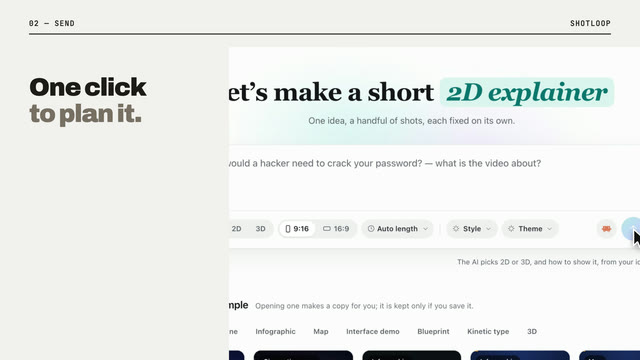
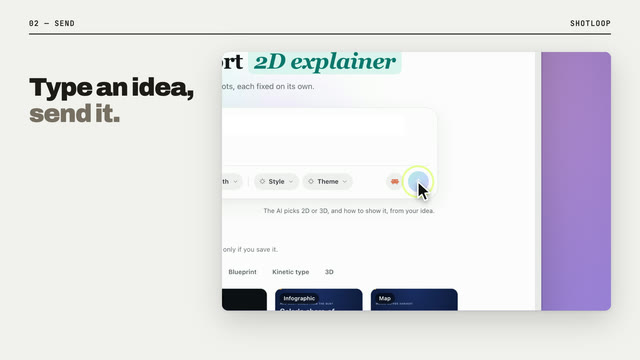
Product promo: a Mac's desktop with its own camera
The camera's moves (in to a click, along to the next, a window dragged)
now happen on a simulated Mac screen in its own box: a soft blue
wallpaper, a menu bar and a Dock, the product's windows on it, all
growing together as the camera comes in. Nothing else in the frame
moves, and what the camera follows (a click) sits in the middle of the
screen. desktop() and desktopPoint() in screens.js; a tool and stills.

diff --git a/app/src/rules.ts b/app/src/rules.ts
@@ -383,6 +383,18 @@ const WORDS: Record<string, { name: Words; about: Words }> = {
     about: { en: 'The common wrong picture, stamped, then the real one', 'zh-CN': '先画常见的错误理解并盖章，再换成真实机制', 'zh-TW': '先畫常見的錯誤理解並蓋章，再換成真實機制', ja: 'よくある誤った理解にスタンプを押し、本当の仕組みへ', ko: '흔한 잘못된 그림에 도장을 찍고, 진짜 원리로', es: 'La idea equivocada común, sellada, y luego la real', 'pt-BR': 'A imagem errada comum, carimbada, e depois a real', fr: 'L’idée fausse courante, tamponnée, puis la vraie', de: 'Das verbreitete falsche Bild, abgestempelt, dann das richtige', it: 'L’idea sbagliata comune, timbrata, poi quella vera', ru: 'Распространённое ложное представление — со штампом, затем настоящее', tr: 'Yaygın yanlış resim damgalanır, ardından gerçeği gelir', vi: 'Hình dung sai phổ biến bị đóng dấu, rồi đến cơ chế thật', id: 'Gambaran keliru yang umum, dicap, lalu yang sebenarnya' }
   },
   // Tools: product promo
+  'desktop': {
+    name: { en: 'A Mac’s desktop', 'zh-CN': '模拟 Mac 桌面', 'zh-TW': '模擬 Mac 桌面', ja: 'Mac のデスクトップ', ko: 'Mac 데스크톱', es: 'Un escritorio de Mac', 'pt-BR': 'Uma mesa do Mac', fr: 'Un bureau de Mac', de: 'Ein Mac-Schreibtisch', it: 'Una scrivania Mac', ru: 'Рабочий стол Mac', tr: 'Bir Mac masaüstü', vi: 'Màn hình nền Mac', id: 'Desktop Mac' },
+    about: { en: 'The product’s windows on a Mac screen with its own camera; zooms, clicks and drags happen there only', 'zh-CN': '产品窗口放在模拟的 Mac 桌面里，桌面有自己的镜头；推近、点击、拖拽只在桌面里发生', 'zh-TW': '產品視窗放在模擬的 Mac 桌面裡，桌面有自己的鏡頭；推近、點擊、拖曳只在桌面裡發生', ja: '製品のウィンドウを独自のカメラを持つ Mac 画面に。寄り・クリック・ドラッグはその中だけ', ko: '제품 창을 자체 카메라가 있는 Mac 화면에. 확대·클릭·드래그는 그 안에서만', es: 'Las ventanas del producto en una pantalla de Mac con su propia cámara; zoom, clics y arrastres solo ahí', 'pt-BR': 'As janelas do produto numa tela de Mac com câmera própria; zoom, cliques e arrastes só ali', fr: 'Les fenêtres du produit sur un écran de Mac avec sa caméra ; zooms, clics et glissés seulement là', de: 'Die Fenster des Produkts auf einem Mac-Bildschirm mit eigener Kamera; Zoomen, Klicken, Ziehen nur dort', it: 'Le finestre del prodotto su uno schermo Mac con la sua camera; zoom, clic e trascinamenti solo lì', ru: 'Окна продукта на экране Mac со своей камерой; наезды, клики и перетаскивания только там', tr: 'Ürünün pencereleri kendi kamerası olan bir Mac ekranında; yakınlaşma, tıklama ve sürükleme yalnızca orada', vi: 'Cửa sổ sản phẩm trên màn hình Mac có máy quay riêng; phóng, bấm, kéo chỉ diễn ra ở đó', id: 'Jendela produk di layar Mac dengan kameranya sendiri; zoom, klik, dan seret hanya di sana' }
+  },
+  'dive': {
+    name: { en: 'Dive to the action', 'zh-CN': '推进到动作处', 'zh-TW': '推進到動作處', ja: '動作へ寄る', ko: '동작으로 파고들기', es: 'Ir a la acción', 'pt-BR': 'Mergulhar na ação', fr: 'Plonger vers l’action', de: 'Rein in die Aktion', it: 'Tuffo nell’azione', ru: 'Наезд к действию', tr: 'Eyleme dalış', vi: 'Lao vào hành động', id: 'Menyelam ke aksi' },
+    about: { en: 'On the desktop, the camera moves in and centres the part; the whole screen grows with it', 'zh-CN': '在桌面里，镜头推近并把部件放到中间，整个屏幕一起放大', 'zh-TW': '在桌面裡，鏡頭推近並把元件放到中間，整個螢幕一起放大', ja: 'デスクトップでカメラが寄り、部品を中央に。画面全体が一緒に拡大', ko: '데스크톱에서 카메라가 다가가 부분을 가운데로, 화면 전체가 함께 커짐', es: 'En el escritorio, la cámara se acerca y centra la parte; toda la pantalla crece con ella', 'pt-BR': 'Na mesa, a câmera se aproxima e centraliza a parte; a tela inteira cresce junto', fr: 'Sur le bureau, la caméra avance et centre la partie ; tout l’écran grandit avec elle', de: 'Auf dem Schreibtisch fährt die Kamera heran und mittet den Teil; der ganze Bildschirm wächst mit', it: 'Sulla scrivania la camera si avvicina e centra la parte; tutto lo schermo cresce con lei', ru: 'На рабочем столе камера наезжает и ставит часть в центр; весь экран растёт вместе с ней', tr: 'Masaüstünde kamera yaklaşır ve parçayı ortalar; tüm ekran onunla büyür', vi: 'Trên màn hình nền, máy quay tiến vào và đặt phần đó ở giữa; cả màn hình phóng to theo', id: 'Di desktop, kamera mendekat dan memusatkan bagian itu; seluruh layar ikut membesar' }
+  },
+  'cursor-action': {
+    name: { en: 'Cursor action', 'zh-CN': '光标操作', 'zh-TW': '游標操作', ja: 'カーソル操作', ko: '커서 동작', es: 'Acción del cursor', 'pt-BR': 'Ação do cursor', fr: 'Action du curseur', de: 'Cursor-Aktion', it: 'Azione del cursore', ru: 'Действие курсора', tr: 'İmleç eylemi', vi: 'Thao tác con trỏ', id: 'Aksi kursor' },
+    about: { en: 'A large pointer clicks; the desktop’s camera puts the click in the middle of the screen', 'zh-CN': '大光标点击，桌面镜头把点击位置放到屏幕正中', 'zh-TW': '大游標點擊，桌面鏡頭把點擊位置放到螢幕正中', ja: '大きなポインターがクリック、デスクトップのカメラがクリック位置を画面の中央へ', ko: '큰 포인터가 클릭하고 데스크톱 카메라가 클릭 지점을 화면 가운데로', es: 'Un puntero grande hace clic; la cámara del escritorio pone el clic en el centro', 'pt-BR': 'Um ponteiro grande clica; a câmera da mesa põe o clique no centro', fr: 'Un grand pointeur clique ; la caméra du bureau place le clic au centre de l’écran', de: 'Ein großer Zeiger klickt; die Kamera des Schreibtischs setzt den Klick in die Bildmitte', it: 'Un grande puntatore clicca; la camera della scrivania mette il clic al centro', ru: 'Крупный курсор кликает; камера стола ставит клик в центр экрана', tr: 'Büyük bir imleç tıklar; masaüstünün kamerası tıklamayı ekranın ortasına alır', vi: 'Con trỏ lớn bấm; máy quay của màn hình nền đặt chỗ bấm vào giữa', id: 'Penunjuk besar mengeklik; kamera desktop menaruh klik di tengah layar' }
+  },
   'chapter': {
     name: { en: 'Chapter', 'zh-CN': '章节标题', 'zh-TW': '章節標題', ja: '章ラベル', ko: '장 라벨', es: 'Capítulo', 'pt-BR': 'Capítulo', fr: 'Chapitre', de: 'Kapitel', it: 'Capitolo', ru: 'Глава', tr: 'Bölüm', vi: 'Chương', id: 'Bab' },
     about: { en: '“01 — The problem” in mono over a rule, the product’s name at the right', 'zh-CN': '分割线上的“01 — 问题”，右侧是产品名', 'zh-TW': '分隔線上的「01 — 問題」，右側是產品名', ja: '罫線の上に「01 — 課題」、右に製品名', ko: '선 위에 “01 — 문제”, 오른쪽에 제품 이름', es: '“01 — El problema” en mono sobre una línea, el nombre a la derecha', 'pt-BR': '“01 — O problema” em mono sobre uma linha, o nome à direita', fr: '« 01 — Le problème » en mono sur un filet, le nom à droite', de: '„01 — Das Problem“ in Mono über einer Linie, der Name rechts', it: '“01 — Il problema” in mono su una riga, il nome a destra', ru: '«01 — Проблема» моноширинным над линейкой, имя справа', tr: 'Çizgi üstünde mono “01 — Sorun”, sağda ürün adı', vi: '“01 — Vấn đề” đơn cách trên đường kẻ, tên sản phẩm bên phải', id: '“01 — Masalah” mono di atas garis, nama produk di kanan' }
@@ -415,10 +427,6 @@ const WORDS: Record<string, { name: Words; about: Words }> = {
     name: { en: 'Screen beside its headline', 'zh-CN': '截图在标题旁', 'zh-TW': '截圖在標題旁', ja: '見出しの横の画面', ko: '제목 옆 화면', es: 'Pantalla junto a su titular', 'pt-BR': 'Tela ao lado do título', fr: 'Écran à côté du titre', de: 'Screen neben der Überschrift', it: 'Schermata accanto al titolo', ru: 'Экран рядом с заголовком', tr: 'Başlığın yanında ekran', vi: 'Màn hình bên tiêu đề', id: 'Layar di samping judul' },
     about: { en: 'A real screen as a window in its own column, rising in, then pushing in slowly', 'zh-CN': '真实界面作为窗口放在自己的一栏，升起后缓慢推进', 'zh-TW': '真實介面作為視窗放在自己的一欄，升起後緩慢推進', ja: '本物の画面がウィンドウとして自分の列に上がり、ゆっくり寄る', ko: '실제 화면이 창으로 자기 칸에 올라오고 천천히 다가감', es: 'Una pantalla real como ventana en su columna, sube y se acerca despacio', 'pt-BR': 'Uma tela real como janela em sua coluna, sobe e se aproxima devagar', fr: 'Un vrai écran en fenêtre dans sa colonne, qui monte puis avance lentement', de: 'Ein echter Screen als Fenster in seiner Spalte, steigt auf und fährt langsam heran', it: 'Una schermata reale come finestra nella sua colonna, sale e si avvicina piano', ru: 'Настоящий экран окном в своей колонке: поднимается и медленно наезжает', tr: 'Kendi sütununda pencere olarak gerçek ekran, yükselir ve yavaşça yaklaşır', vi: 'Màn hình thật dạng cửa sổ trong cột riêng, hiện lên rồi tiến chậm', id: 'Layar asli sebagai jendela di kolomnya, naik lalu mendekat perlahan' }
   },
-  'dive': {
-    name: { en: 'Dive to the action', 'zh-CN': '推进到动作处', 'zh-TW': '推進到動作處', ja: '動作へ寄る', ko: '동작으로 파고들기', es: 'Ir a la acción', 'pt-BR': 'Mergulhar na ação', fr: 'Plonger vers l’action', de: 'Rein in die Aktion', it: 'Tuffo nell’azione', ru: 'Наезд к действию', tr: 'Eyleme dalış', vi: 'Lao vào hành động', id: 'Menyelam ke aksi' },
-    about: { en: 'The camera moves in to the part, the interface running off the frame', 'zh-CN': '镜头推近到部件，界面延伸出画面', 'zh-TW': '鏡頭推近到元件，介面延伸出畫面', ja: 'カメラが部品へ寄り、UI は枠外まで広がる', ko: '카메라가 부분으로 다가가고 UI는 프레임 밖까지', es: 'La cámara entra hasta la parte, la interfaz sale del cuadro', 'pt-BR': 'A câmera avança até a parte, a interface sai do quadro', fr: 'La caméra entre jusqu’à la partie, l’interface déborde du cadre', de: 'Die Kamera fährt an den Teil heran, die UI läuft aus dem Bild', it: 'La camera entra fino alla parte, l’interfaccia esce dal bordo', ru: 'Камера подъезжает к части, интерфейс уходит за край', tr: 'Kamera parçaya girer, arayüz kadrajdan taşar', vi: 'Máy quay tiến vào phần đó, giao diện tràn khỏi khung', id: 'Kamera masuk ke bagian itu, antarmuka meluber keluar bingkai' }
-  },
   'wipe-cut': {
     name: { en: 'Wipe cut', 'zh-CN': '横扫转场', 'zh-TW': '橫掃轉場', ja: 'ワイプのカット', ko: '와이프 컷', es: 'Corte con barrido', 'pt-BR': 'Corte com cortina', fr: 'Coupe en volet', de: 'Wischblende', it: 'Taglio a tendina', ru: 'Склейка шторкой', tr: 'Silme geçişi', vi: 'Chuyển cảnh quét', id: 'Potongan sapuan' },
     about: { en: 'An ink panel crosses the frame in 0.36 s between two beats', 'zh-CN': '一块墨色板在两拍之间 0.36 秒横扫过画面', 'zh-TW': '一塊墨色板在兩拍之間 0.36 秒橫掃過畫面', ja: '2 つのビートの間でインクの板が 0.36 秒で横切る', ko: '두 비트 사이에 잉크 판이 0.36초에 화면을 가로지름', es: 'Un panel de tinta cruza el cuadro en 0,36 s entre dos momentos', 'pt-BR': 'Um painel de tinta cruza o quadro em 0,36 s entre dois momentos', fr: 'Un panneau d’encre traverse le cadre en 0,36 s entre deux temps', de: 'Eine Tintenfläche quert das Bild in 0,36 s zwischen zwei Momenten', it: 'Un pannello d’inchiostro attraversa il quadro in 0,36 s tra due momenti', ru: 'Чернильная панель пересекает кадр за 0,36 с между двумя моментами', tr: 'İki vuruş arasında mürekkep bir panel kadrajı 0,36 sn’de geçer', vi: 'Một tấm mực quét qua khung trong 0,36 giây giữa hai nhịp', id: 'Panel tinta melintasi bingkai dalam 0,36 dtk di antara dua ketukan' }
@@ -426,10 +434,6 @@ const WORDS: Record<string, { name: Words; about: Words }> = {
   'logo-lockup': {
     name: { en: 'End card', 'zh-CN': '结尾卡', 'zh-TW': '結尾卡', ja: 'エンドカード', ko: '엔드 카드', es: 'Tarjeta final', 'pt-BR': 'Cartão final', fr: 'Carton final', de: 'Endkarte', it: 'Cartello finale', ru: 'Финальная карточка', tr: 'Bitiş kartı', vi: 'Thẻ kết', id: 'Kartu akhir' },
     about: { en: 'A field of the accent: the name huge, the line to remember, the address', 'zh-CN': '强调色整屏：超大产品名、要记住的一句话、网址', 'zh-TW': '強調色整屏：超大產品名、要記住的一句話、網址', ja: 'アクセント色の面：特大の名前、覚えてほしい一言、アドレス', ko: '강조색 화면: 커다란 이름, 기억할 한 줄, 주소', es: 'Un campo del acento: el nombre enorme, la frase para recordar, la dirección', 'pt-BR': 'Um campo do destaque: o nome enorme, a frase para lembrar, o endereço', fr: 'Un aplat de l’accent : le nom immense, la phrase à retenir, l’adresse', de: 'Eine Fläche im Akzent: der Name riesig, der Merksatz, die Adresse', it: 'Un campo dell’accento: il nome enorme, la frase da ricordare, l’indirizzo', ru: 'Поле акцентного цвета: огромное имя, фраза на память, адрес', tr: 'Vurgu renginde bir alan: dev isim, akılda kalacak cümle, adres', vi: 'Một nền màu nhấn: tên thật lớn, câu để nhớ, địa chỉ', id: 'Bidang warna aksen: nama besar, kalimat untuk diingat, alamat' }
-  },
-  'cursor-action': {
-    name: { en: 'Cursor action', 'zh-CN': '光标操作', 'zh-TW': '游標操作', ja: 'カーソル操作', ko: '커서 동작', es: 'Acción del cursor', 'pt-BR': 'Ação do cursor', fr: 'Action du curseur', de: 'Cursor-Aktion', it: 'Azione del cursore', ru: 'Действие курсора', tr: 'İmleç eylemi', vi: 'Thao tác con trỏ', id: 'Aksi kursor' },
-    about: { en: 'A large pointer glides, hovers and clicks; the camera moves in around it', 'zh-CN': '大光标滑过、悬停、点击；镜头跟着推近', 'zh-TW': '大游標滑過、懸停、點擊；鏡頭跟著推近', ja: '大きなポインターが滑り、止まり、クリック。カメラも寄る', ko: '큰 포인터가 미끄러지고 머물고 클릭, 카메라가 다가감', es: 'Un puntero grande se desliza, se posa y hace clic; la cámara se acerca', 'pt-BR': 'Um ponteiro grande desliza, para e clica; a câmera se aproxima', fr: 'Un grand pointeur glisse, survole et clique ; la caméra s’approche', de: 'Ein großer Zeiger gleitet, verweilt und klickt; die Kamera fährt heran', it: 'Un grande puntatore scivola, si ferma e clicca; la camera si avvicina', ru: 'Крупный курсор скользит, замирает и кликает; камера приближается', tr: 'Büyük bir imleç kayar, durur ve tıklar; kamera yaklaşır', vi: 'Con trỏ lớn lướt, dừng và bấm; máy quay tiến vào', id: 'Penunjuk besar meluncur, berhenti, dan mengeklik; kamera mendekat' }
   },
   'type-in': {
     name: { en: 'Type it in', 'zh-CN': '逐字输入', 'zh-TW': '逐字輸入', ja: '一文字ずつ入力', ko: '한 글자씩 입력', es: 'Escribirlo', 'pt-BR': 'Digitar', fr: 'Le taper', de: 'Eintippen', it: 'Digitarlo', ru: 'Набрать текст', tr: 'Yazarak gir', vi: 'Gõ từng chữ', id: 'Ketik masuk' },

diff --git a/engine/shotloop/screens.js b/engine/shotloop/screens.js
@@ -4,8 +4,8 @@
 // promo's world before each command: never edit it here; a promo's own
 // pieces go in world/*.js modules beside it. Shots import what they use:
 //
-//   import { load, depth, chapter, headline, row, counter, steps, bubble, compare, wipe, endCard,
-//     shot, camera, follow, drift, cursor, typing, field, livePart, fill } from '../../world/screens.js'
+//   import { load, depth, layout, source, chapter, headline, row, counter, steps, bubble, compare, wipe, endCard,
+//     desktop, desktopPoint, shot, camera, follow, drift, cursor, typing, field, livePart, fill } from '../../world/screens.js'
 //
 // The craft it follows is the promo's taste (Settings → Rules, kind
 // promo), after oliverz.dev's product films: the problem first, then the
@@ -37,6 +37,9 @@
 //   It returns the layer, so a live part's field can be filled after.
 // - kit.stage(svg) above it: cursor().
 //
+// The camera's moves (in to a click, along to the next, a window dragged)
+// happen on a desktop(): a simulated screen in its own box, so nothing
+// else in the frame moves, and what the camera follows sits in its middle.
 // A shot sits in stageBox() unless given a box: the product running off
 // the bottom and the right. Its camera: { x, y } the point of the picture
 // at the box's centre (0–1 across and down it), zoom 1 the whole picture
@@ -334,6 +337,99 @@ function windowShot({ file, width, height, box, view = { x: 0.5, y: 0.5, zoom: 1
 // Something drawn on a shot's picture, cut to the part of it in frame
 const onShot = (under, html) => `<div style="position:absolute;left:${n(under.seen.x)}px;top:${n(under.seen.y)}px;width:${n(under.seen.w)}px;height:${n(under.seen.h)}px;overflow:hidden">` +
   `<div style="position:absolute;left:${n(-under.seen.x)}px;top:${n(-under.seen.y)}px">${html}</div></div>`
+
+// ---- A desktop: windows on a simulated screen, with its own camera ----
+//
+// A promo's camera moves on a desktop of its own, so a push-in, a click
+// or a window dragged never moves anything else in the frame: a box (a
+// layout() picture box) showing a Mac's screen, as a viewer knows one (a
+// soft blue wallpaper drawn here, a menu bar, a Dock), and the product's
+// windows on it (pictures with a title bar). The whole screen is in the
+// camera, so moving in enlarges the bar and the Dock too.
+// Its camera centres what it looks at: a click it follows lands in the
+// middle of the box. Positions on it are desktop px: (0, 0) its top-left,
+// box.w × box.h its size at zoom 1.
+
+// Each window's place on the desktop: { x, y, w } in desktop px (its
+// height follows the picture and its title bar)
+function desktopWindows(windows, u) {
+  const bar = 26 * u
+  return windows.map(win => {
+    const s = win.w / win.width
+    return { ...win, s, bar, h: win.height * s + bar }
+  })
+}
+
+// Where a point of a window's picture is on the desktop (desktop px),
+// to aim the camera at: follow() takes these divided by the box's size
+export function desktopPoint({ box, windows }, i, px, py) {
+  const w = desktopWindows(windows, unit())[i]
+  return { x: (w.x + px * w.s) / box.w, y: (w.y + w.bar + py * w.s) / box.h }
+}
+
+// The desktop in box { x, y, w, h }, its windows [{ file, width, height,
+// x, y, w, title, p, over }] (p brings a window in; x, y may change with t
+// to drag it), seen by view { x, y, zoom } (a camera(t, keys) over desktop
+// fractions; follow() and desktopPoint() aim it at clicks). The view's
+// point is centred in the box; zoom never passes the pictures' pixels.
+// app: the name in the menu bar; dock: the product's icon (a picture of
+// the project) among the Dock's, or none
+// Gives back { html, at(i, px, py) → frame px, window(i) } for the
+// cursor and words; window(i) is what field() takes for that window
+export function desktop({ box, windows, view = { x: 0.5, y: 0.5, zoom: 1 }, app = '', dock = '', p = 1 }) {
+  const { C } = kit()
+  const u = unit()
+  const wins = desktopWindows(windows, u)
+  // Sharp: the window shown largest sets how close the camera may come
+  const sharp = Math.min(...wins.map(w => 1 / OUT / w.s))
+  const z = clamp(view.zoom, 0.5, Math.max(1, sharp))
+  const cx = box.w / 2, cy = box.h / 2
+  // Desktop px → box px: the view's point to the box's centre
+  const tx = cx - view.x * box.w * z, ty = cy - view.y * box.h * z
+  const at = (i, px, py) => {
+    const w = wins[i]
+    return { x: box.x + tx + (w.x + px * w.s) * z, y: box.y + ty + (w.y + w.bar + py * w.s) * z }
+  }
+  const mb = blur((view.vx ?? 0) * box.w * z, (view.vy ?? 0) * box.h * z)
+  // The screen: a soft blue wallpaper (drawn, wider than the desktop so
+  // no edge shows when the camera centres something near one), a menu
+  // bar, a Dock
+  const ui = `-apple-system, BlinkMacSystemFont, 'SF Pro Text', 'Helvetica Neue', sans-serif`
+  const wallpaper = `<div style="position:absolute;left:${n(-box.w)}px;top:${n(-box.h)}px;width:${n(box.w * 3)}px;height:${n(box.h * 3)}px;` +
+    'background:radial-gradient(40% 35% at 38% 30%, #9fc4ff, transparent 70%),radial-gradient(35% 40% at 70% 70%, #b49cf2, transparent 70%),' +
+    'radial-gradient(30% 30% at 55% 45%, #e9b6d8, transparent 70%),linear-gradient(160deg, #3a5fb8, #6b4fb0 55%, #2c3f86)"></div>'
+  const bar = 22 * u
+  const menu = `<div style="position:absolute;left:0;top:0;width:${n(box.w)}px;height:${n(bar)}px;background:rgba(246,246,248,.62);backdrop-filter:blur(14px);` +
+    `display:flex;align-items:center;gap:${n(16 * u)}px;padding:0 ${n(14 * u)}px;box-sizing:border-box;font:400 ${n(10.5 * u)}px/1 ${ui};color:#1d1d1f">` +
+    `<b style="font-weight:700">${esc(app)}</b>${['File', 'Edit', 'View', 'Window', 'Help'].map(m => `<span>${m}</span>`).join('')}` +
+    `<span style="margin-left:auto">Mon 9:41</span></div>`
+  const tile = 30 * u
+  const tiles = ['#5aa0ff,#2a6fe0', '#7dd87a,#2fa34a', '#ffd25e,#f2a23a', '#ff8a7a,#e04a4a', '#c9c9cf,#8e8e96', '#9b8cff,#6a55e8']
+  const icon = dock ? `<img src="${url(dock)}" style="width:${n(tile)}px;height:${n(tile)}px;border-radius:${n(tile * 0.23)}px;object-fit:cover">` : ''
+  const dockHtml = `<div style="position:absolute;left:50%;bottom:${n(6 * u)}px;transform:translateX(-50%);display:flex;gap:${n(6 * u)}px;padding:${n(5 * u)}px ${n(7 * u)}px;` +
+    `border-radius:${n(14 * u)}px;background:rgba(255,255,255,.28);backdrop-filter:blur(14px);box-shadow:0 0 0 1px rgba(255,255,255,.35)">` +
+    icon + tiles.map(c => `<i style="display:block;width:${n(tile)}px;height:${n(tile)}px;border-radius:${n(tile * 0.23)}px;background:linear-gradient(160deg,${c})"></i>`).join('') + '</div>'
+  const windowHtml = wins.map(w => {
+    const q = clamp(w.p ?? 1)
+    const rise = (1 - arrive(q * 1.4, 0)) * 30 * u
+    const chrome = `<div style="position:absolute;left:0;top:0;width:${n(w.w)}px;height:${n(w.bar)}px;background:#ececec;border-bottom:1px solid rgba(0,0,0,.08);display:flex;align-items:center;gap:${n(6 * u)}px;padding-left:${n(10 * u)}px;box-sizing:border-box">` +
+      ['#ff5f57', '#febc2e', '#28c840'].map(col => `<i style="display:block;width:${n(9 * u)}px;height:${n(9 * u)}px;border-radius:50%;background:${col}"></i>`).join('') +
+      (w.title ? `<span style="position:absolute;left:0;right:0;text-align:center;font:500 ${n(10 * u)}px/1 ${HEAD()};color:#555">${esc(w.title)}</span>` : '') + '</div>'
+    return `<div style="position:absolute;left:${n(w.x)}px;top:${n(w.y + rise)}px;width:${n(w.w)}px;height:${n(w.h)}px;opacity:${n(clamp(q * 1.6))};` +
+      `border-radius:${n(10 * u)}px;overflow:hidden;box-shadow:0 0 0 1px rgba(0,0,0,.12),0 ${n(14 * u)}px ${n(36 * u)}px rgba(0,0,0,.22)">${chrome}` +
+      `<div style="position:absolute;left:0;top:${n(w.bar)}px;width:${n(w.w)}px;height:${n(w.h - w.bar)}px;overflow:hidden">` +
+      `<div style="position:absolute;left:0;top:0;transform:scale(${w.s});transform-origin:0 0">${layers(w.file, w.width, w.height, w.over)}</div></div></div>`
+  }).join('')
+  const q = clamp(p)
+  const html = mb.svg + `<div style="position:absolute;left:${n(box.x)}px;top:${n(box.y)}px;width:${n(box.w)}px;height:${n(box.h)}px;overflow:hidden;border-radius:${n(12 * u)}px;` +
+    `background:#2c3f86;box-shadow:${SHADOW(u)};opacity:${n(clamp(q * 1.6))};transform:translateY(${n((1 - arrive(q * 1.4, 0)) * 30 * u)}px)">` +
+    `<div style="position:absolute;left:0;top:0;width:${n(box.w)}px;height:${n(box.h)}px;transform:translate(${n(tx)}px,${n(ty)}px) scale(${n(z * 1000) / 1000});transform-origin:0 0;${mb.css}">` +
+    `${wallpaper}${windowHtml}${menu}${dockHtml}</div></div>`
+  const { W, H } = kit()
+  const x0 = Math.max(box.x, 0), y0 = Math.max(box.y, 0)
+  const seen = { x: x0, y: y0, w: Math.min(box.x + box.w, W) - x0, h: Math.min(box.y + box.h, H) - y0 }
+  return { html, at, zoom: z, window: i => ({ at: (px, py) => at(i, px, py), scale: wins[i].s * z, seen }) }
+}
 
 // A live part (load it first): its left edge at box.x, centred on box.y,
 // box.w wide; sharp at any size, being HTML. tilt and p as a shot's
